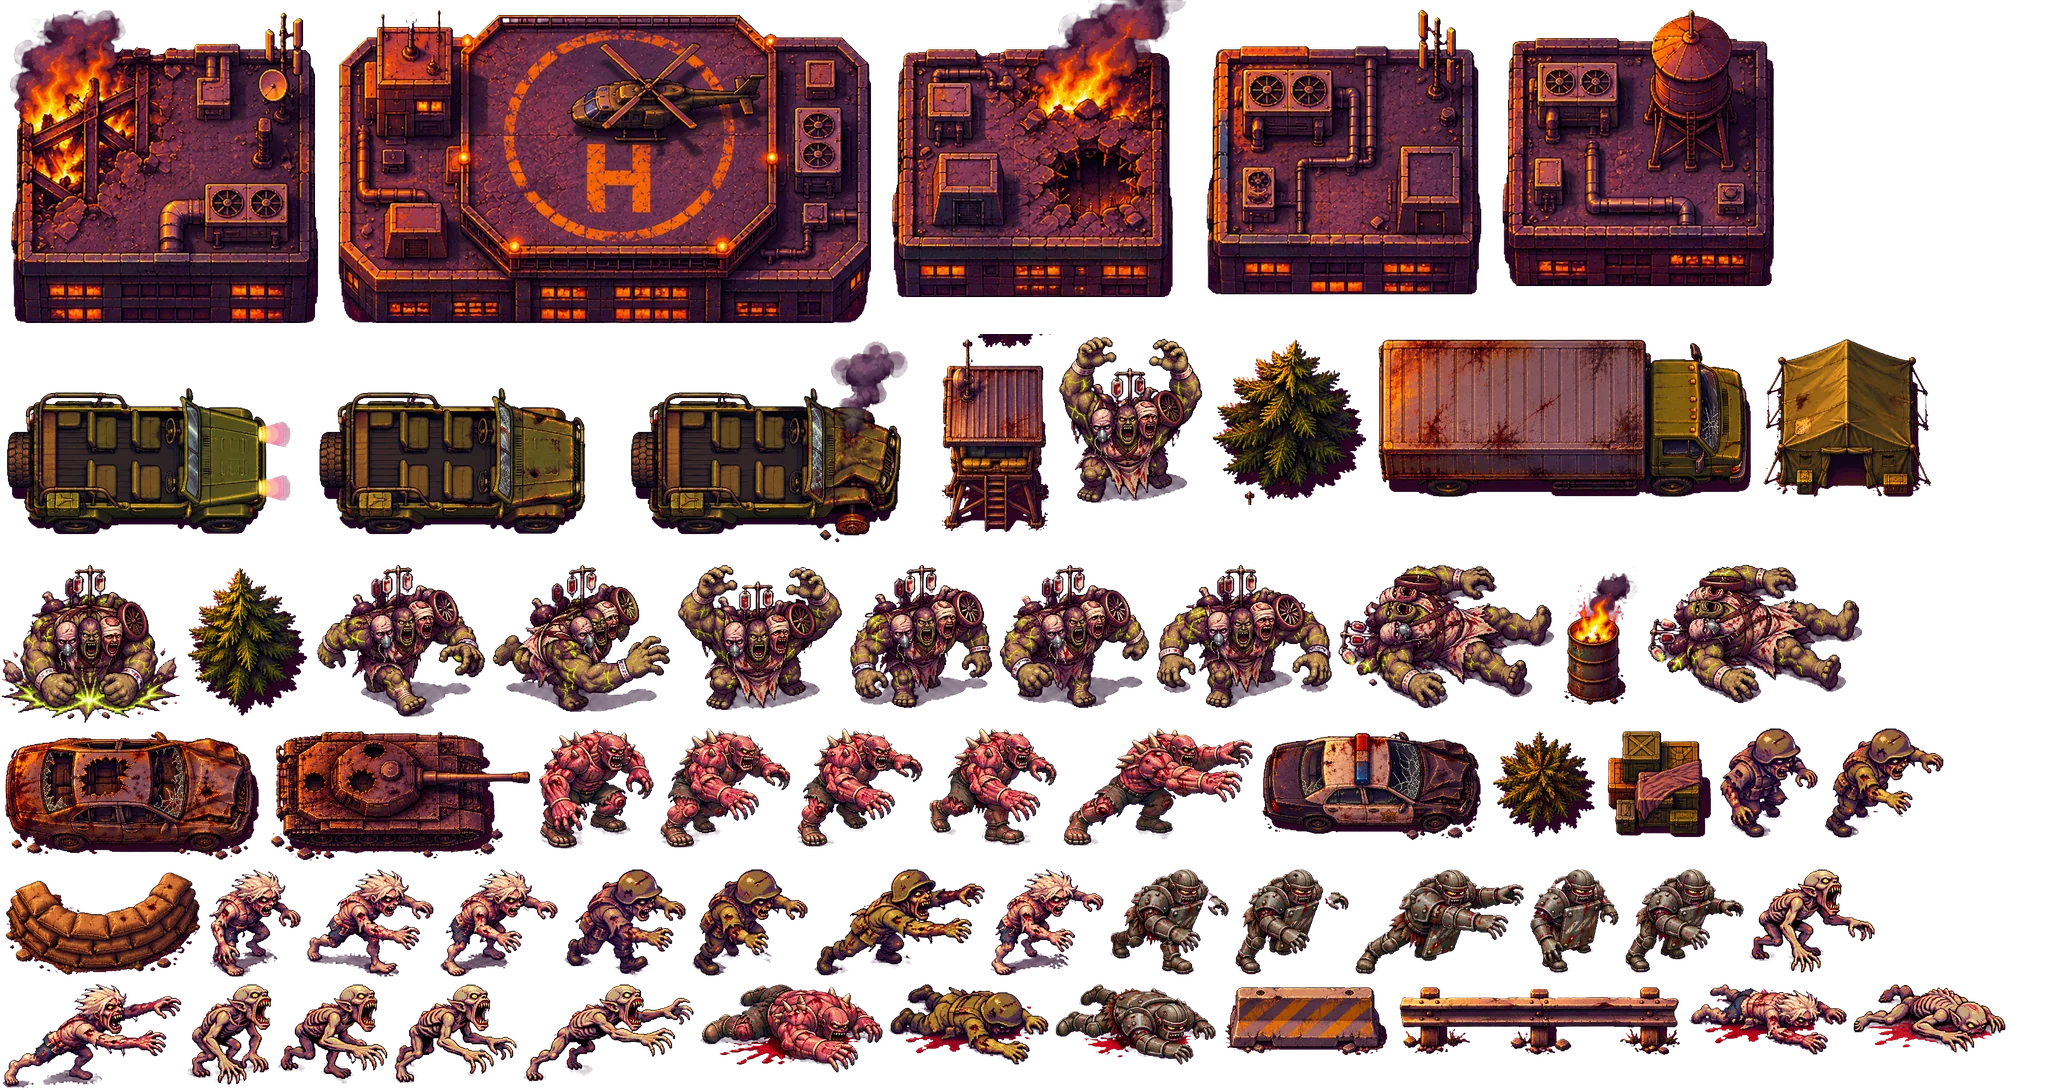
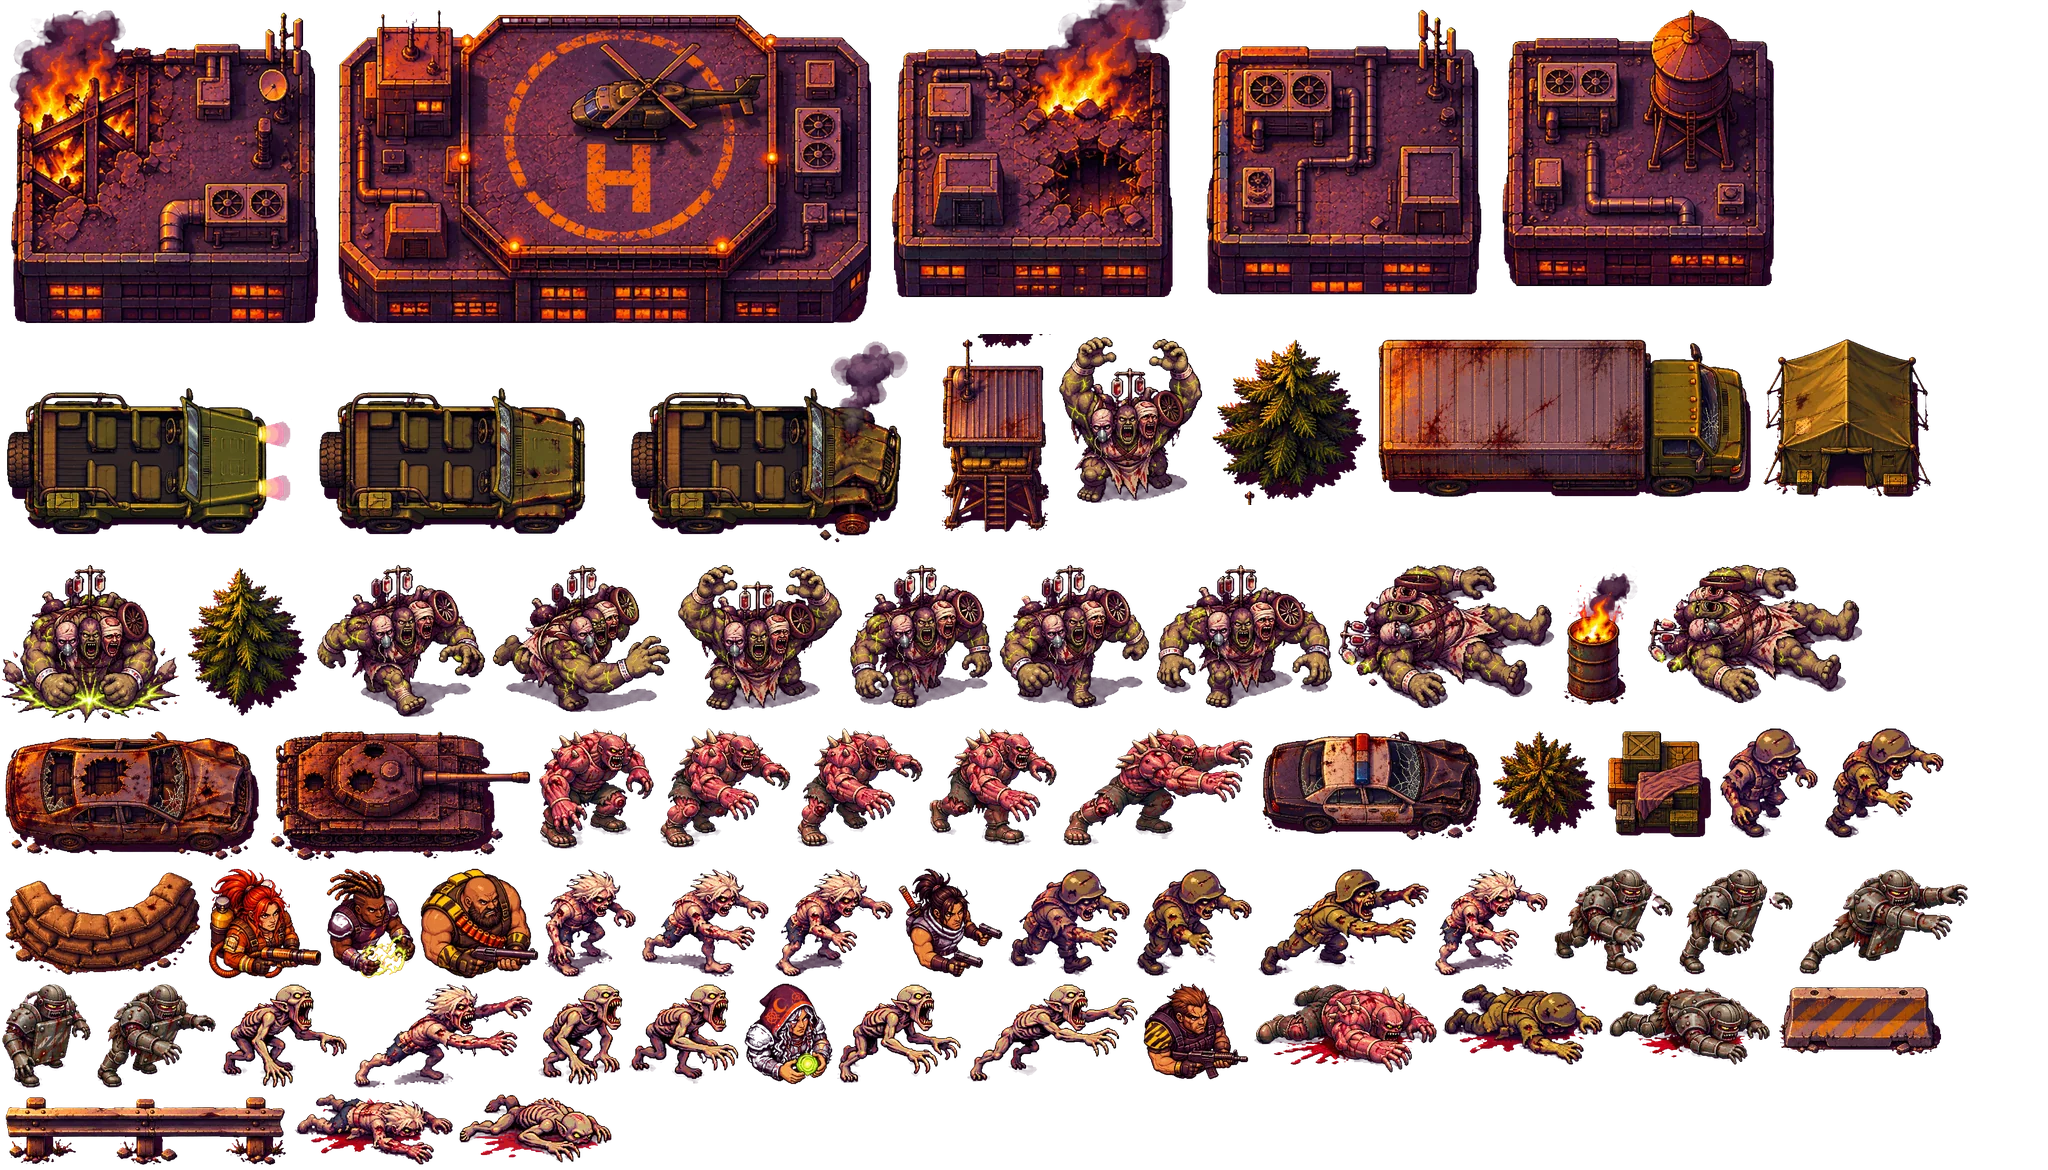
Stage 6: rider sprites in the jeep seats
Claude-Session: https://claude.ai/code/session_011TPi5fyk4GLuTR427GHKeK

diff --git a/game.js b/game.js
@@ -2462,8 +2462,8 @@ function s6In(D){const v=Object.values(D.ptr);D.in={l:v.includes('l'),r:v.includ
 
 /* ---------- drawing ---------- */
 const S6_ZOOM=.78;
-const S6SPR=new Image(),S6DIRT=new Image(),S6ASPH=new Image(),S6CONC=new Image(),S6M=JSON.parse('{"roof3": [0, 0, 327, 332], "helipad": [329, 0, 551, 332], "roof1": [882, 0, 313, 306], "roof0": [1197, 0, 294, 304], "roof2": [1493, 0, 290, 295], "jeep0": [0, 334, 310, 226], "jeep1": [312, 334, 310, 226], "jeep2": [624, 334, 310, 226], "tower": [936, 334, 118, 203], "ws2": [1056, 334, 149, 172], "tree0": [1207, 334, 164, 171], "truck": [1373, 334, 383, 168], "tent": [1758, 334, 178, 168], "ws3": [0, 562, 180, 162], "tree1": [182, 562, 130, 159], "ww2": [314, 562, 174, 158], "ww3": [490, 562, 183, 153], "ws1": [675, 562, 170, 151], "ww0": [847, 562, 148, 149], "ww1": [997, 562, 155, 149], "ws0": [1154, 562, 181, 149], "wd0": [1337, 562, 220, 149], "barrel": [1559, 562, 84, 148], "wd1": [1645, 562, 220, 144], "car": [0, 726, 264, 139], "tank": [266, 726, 269, 139], "z_brute0": [537, 726, 119, 125], "z_brute3": [658, 726, 135, 124], "z_brute2": [795, 726, 130, 123], "z_brute1": [927, 726, 132, 122], "z_brute4": [1061, 726, 194, 122], "cop": [1257, 726, 229, 119], "tree2": [1488, 726, 112, 116], "crates": [1602, 726, 114, 116], "z_grunt0": [1718, 726, 102, 114], "z_grunt2": [1822, 726, 124, 114], "sand": [0, 867, 205, 113], "z_runner0": [207, 867, 96, 112], "z_runner1": [305, 867, 131, 112], "z_runner3": [438, 867, 122, 112], "z_grunt1": [562, 867, 126, 111], "z_grunt3": [690, 867, 120, 111], "z_grunt4": [812, 867, 175, 111], "z_runner2": [989, 867, 117, 111], "z_armored1": [1108, 867, 123, 110], "z_armored2": [1233, 867, 118, 110], "z_armored4": [1353, 867, 173, 110], "z_armored0": [1528, 867, 93, 108], "z_armored3": [1623, 867, 123, 108], "z_screecher2": [1748, 867, 129, 108], "z_runner4": [0, 982, 184, 108], "z_screecher0": [186, 982, 88, 105], "z_screecher1": [276, 982, 114, 104], "z_screecher3": [392, 982, 127, 103], "z_screecher4": [521, 982, 175, 102], "z_brute5": [698, 982, 187, 93], "z_grunt5": [887, 982, 164, 85], "z_armored5": [1053, 982, 165, 85], "barrier": [1220, 982, 172, 78], "rail": [1394, 982, 291, 78], "z_runner5": [1687, 982, 162, 75], "z_screecher5": [1851, 982, 157, 73]}'||'{}');let S6PAT={};
-function s6ArtLoad(){if(S6SPR.src||!'assets/s6spr.webp?v=a062f639b8')return;S6SPR.src='assets/s6spr.webp?v=a062f639b8';S6DIRT.src='assets/s6dirt.webp?v=3284f2b95a';S6ASPH.src='assets/s6asph.webp?v=c481df7af7';S6CONC.src='assets/s6conc.webp?v=21f0c7258c';}
+const S6SPR=new Image(),S6DIRT=new Image(),S6ASPH=new Image(),S6CONC=new Image(),S6M=JSON.parse('{"roof3": [0, 0, 327, 332], "helipad": [329, 0, 551, 332], "roof1": [882, 0, 313, 306], "roof0": [1197, 0, 294, 304], "roof2": [1493, 0, 290, 295], "jeep0": [0, 334, 310, 226], "jeep1": [312, 334, 310, 226], "jeep2": [624, 334, 310, 226], "tower": [936, 334, 118, 203], "ws2": [1056, 334, 149, 172], "tree0": [1207, 334, 164, 171], "truck": [1373, 334, 383, 168], "tent": [1758, 334, 178, 168], "ws3": [0, 562, 180, 162], "tree1": [182, 562, 130, 159], "ww2": [314, 562, 174, 158], "ww3": [490, 562, 183, 153], "ws1": [675, 562, 170, 151], "ww0": [847, 562, 148, 149], "ww1": [997, 562, 155, 149], "ws0": [1154, 562, 181, 149], "wd0": [1337, 562, 220, 149], "barrel": [1559, 562, 84, 148], "wd1": [1645, 562, 220, 144], "car": [0, 726, 264, 139], "tank": [266, 726, 269, 139], "z_brute0": [537, 726, 119, 125], "z_brute3": [658, 726, 135, 124], "z_brute2": [795, 726, 130, 123], "z_brute1": [927, 726, 132, 122], "z_brute4": [1061, 726, 194, 122], "cop": [1257, 726, 229, 119], "tree2": [1488, 726, 112, 116], "crates": [1602, 726, 114, 116], "z_grunt0": [1718, 726, 102, 114], "z_grunt2": [1822, 726, 124, 114], "sand": [0, 867, 205, 113], "r_blaze": [207, 867, 116, 113], "r_volt": [325, 867, 92, 113], "r_bruno": [419, 867, 121, 113], "z_runner0": [542, 867, 96, 112], "z_runner1": [640, 867, 131, 112], "z_runner3": [773, 867, 122, 112], "r_rook": [897, 867, 107, 112], "z_grunt1": [1006, 867, 126, 111], "z_grunt3": [1134, 867, 120, 111], "z_grunt4": [1256, 867, 175, 111], "z_runner2": [1433, 867, 117, 111], "z_armored1": [1552, 867, 123, 110], "z_armored2": [1677, 867, 118, 110], "z_armored4": [1797, 867, 173, 110], "z_armored0": [0, 982, 93, 108], "z_armored3": [95, 982, 123, 108], "z_screecher2": [220, 982, 129, 108], "z_runner4": [351, 982, 184, 108], "z_screecher0": [537, 982, 88, 105], "z_screecher1": [627, 982, 114, 104], "r_hex": [743, 982, 91, 104], "z_screecher3": [836, 982, 127, 103], "z_screecher4": [965, 982, 175, 102], "r_cmd": [1142, 982, 108, 99], "z_brute5": [1252, 982, 187, 93], "z_grunt5": [1441, 982, 164, 85], "z_armored5": [1607, 982, 165, 85], "barrier": [1774, 982, 172, 78], "rail": [0, 1092, 291, 78], "z_runner5": [293, 1092, 162, 75], "z_screecher5": [457, 1092, 157, 73]}'||'{}');let S6PAT={};
+function s6ArtLoad(){if(S6SPR.src||!'assets/s6spr.webp?v=083186ca6d')return;S6SPR.src='assets/s6spr.webp?v=083186ca6d';S6DIRT.src='assets/s6dirt.webp?v=3284f2b95a';S6ASPH.src='assets/s6asph.webp?v=c481df7af7';S6CONC.src='assets/s6conc.webp?v=21f0c7258c';}
 const s6ok=i=>i.complete&&i.naturalWidth>0;
 function s6SprF(n,x,y,w,left,al){const r=S6M[n];if(!r||!s6ok(S6SPR))return false;const h=w*r[3]/r[2];ctx.save();ctx.translate(x,y);if(left)ctx.scale(-1,1);if(al!=null)ctx.globalAlpha=al;ctx.drawImage(S6SPR,r[0],r[1],r[2],r[3],-w/2,-h*.8,w,h);ctx.restore();return true;}
 function s6Spr(n,x,y,w,a,fl,al){const r=S6M[n];if(!r||!s6ok(S6SPR))return false;const h=w*r[3]/r[2];ctx.save();ctx.translate(x,y);if(a)ctx.rotate(a);if(fl)ctx.scale(1,-1);if(al!=null)ctx.globalAlpha=al;ctx.drawImage(S6SPR,r[0],r[1],r[2],r[3],-w/2,-h/2,w,h);ctx.restore();return true;}
@@ -2555,8 +2555,8 @@ function s6Jeep(D,x,y,Z){ctx.save();ctx.translate(x,y);ctx.rotate(D.a);const s=Z
   if(jr&&s6ok(S6SPR)){const J=1.3,k=s*J*84/284;
     if(fr<2){const g=ctx.createRadialGradient(150*s,0,10*s,150*s,0,150*s);g.addColorStop(0,'rgba(255,233,160,.28)');g.addColorStop(1,'rgba(255,233,160,0)');ctx.fillStyle=g;ctx.beginPath();ctx.moveTo(52*s,-16*s);ctx.lineTo(280*s,-95*s);ctx.lineTo(280*s,95*s);ctx.lineTo(52*s,16*s);ctx.closePath();ctx.fill();}
     if(D.dmgT>0)ctx.filter='brightness(1.6)';ctx.drawImage(S6SPR,jr[0],jr[1],jr[2],jr[3],-146*k,-127*k,jr[2]*k,jr[3]*k);ctx.filter='none';
-    for(const st of S6_SEATS){const id=D.seats[st];if(!id)continue;const[f,r]=S6_POS[st],col=id==='cmd'?'#ffc53d':HEROES[id].color,px=f*s*J,py=r*s*J,rr=(st==='stand'?8.5:7.5)*s;
-      if(S6M['r_'+id]&&s6ok(S6SPR)){s6Spr('r_'+id,px,py,rr*2.8,0);continue;}
+    for(const st of S6_SEATS.slice().sort((p,q)=>S6_POS[p][0]-S6_POS[q][0])){const id=D.seats[st];if(!id)continue;const[f,r]=S6_POS[st],col=id==='cmd'?'#ffc53d':HEROES[id].color,px=f*s*J,py=r*s*J,rr=(st==='stand'?8.5:7.5)*s;
+      if(S6M['r_'+id]&&s6ok(S6SPR)){const r=S6M['r_'+id],w=(id==='bruno'?33:29)*s,h=w*r[3]/r[2];ctx.save();ctx.translate(px,py);ctx.rotate(-D.a);if(Math.cos(D.a)<0)ctx.scale(-1,1);ctx.drawImage(S6SPR,r[0],r[1],r[2],r[3],-w/2,-h*.7,w,h);ctx.restore();continue;}
       ctx.fillStyle=col;ctx.beginPath();ctx.arc(px,py,rr+1.6*s,0,6.283);ctx.fill();const pi=POR[id];
       if(pi&&pi.complete&&pi.naturalWidth){ctx.save();ctx.beginPath();ctx.arc(px,py,rr,0,6.283);ctx.clip();ctx.translate(px,py);ctx.rotate(-D.a);ctx.drawImage(pi,-rr,-rr,rr*2,rr*2);ctx.restore();}
       else{ctx.fillStyle='#0b0b0b';ctx.beginPath();ctx.arc(px,py,rr*.7,0,6.283);ctx.fill();}}
@@ -2566,7 +2566,7 @@ function s6Jeep(D,x,y,Z){ctx.save();ctx.translate(x,y);ctx.rotate(D.a);const s=Z
   ctx.fillStyle='#111';for(const[a,b]of[[22,-21],[22,15],[-24,-21],[-24,15]])ctx.fillRect(a*s-8*s,b*s,16*s,6*s);
   ctx.fillStyle=D.dmgT>0?'#7a6a3a':'#4f5e34';ctx.fillRect(-38*s,-18*s,76*s,36*s);ctx.fillStyle='#3e4a28';ctx.fillRect(22*s,-18*s,16*s,36*s);
   ctx.fillStyle='#9fc8d8';ctx.fillRect(18*s,-15*s,3*s,30*s);ctx.fillStyle='#ffe9a0';ctx.fillRect(37*s,-15*s,3*s,6*s);ctx.fillRect(37*s,9*s,3*s,6*s);
-  for(const st of S6_SEATS){const id=D.seats[st];if(!id)continue;const[f,r]=S6_POS[st],col=id==='cmd'?'#ffc53d':HEROES[id].color;ctx.fillStyle='#1a1a1a';ctx.beginPath();ctx.arc(f*s,r*s,7*s,0,6.283);ctx.fill();ctx.fillStyle=col;ctx.beginPath();ctx.arc(f*s,r*s,5.2*s,0,6.283);ctx.fill();}
+  for(const st of S6_SEATS.slice().sort((p,q)=>S6_POS[p][0]-S6_POS[q][0])){const id=D.seats[st];if(!id)continue;const[f,r]=S6_POS[st],col=id==='cmd'?'#ffc53d':HEROES[id].color;ctx.fillStyle='#1a1a1a';ctx.beginPath();ctx.arc(f*s,r*s,7*s,0,6.283);ctx.fill();ctx.fillStyle=col;ctx.beginPath();ctx.arc(f*s,r*s,5.2*s,0,6.283);ctx.fill();}
   if(D.seats.stand==='hex'){ctx.strokeStyle='rgba(182,242,58,'+(.25+.15*Math.sin(t*4))+')';ctx.lineWidth=2;ctx.beginPath();ctx.ellipse(0,0,52*s,32*s,0,0,6.283);ctx.stroke();}
   ctx.restore();}
 function s6HUD(D){const hp=D.hp/D.max;ctx.fillStyle='#0d1016cc';ctx.fillRect(12,10,250,30);ctx.fillStyle='#efe6dc';ctx.font='11px Bungee, Impact, sans-serif';ctx.textAlign='left';ctx.fillText('JEEP',20,30);

diff --git a/index.html b/index.html
@@ -222,13 +222,13 @@ h3{font-size:12px;letter-spacing:.14em;text-transform:uppercase;color:var(--mute
   <div class="overlay" id="ov"></div>
 </div>
 
-<script>window.__VER='65cf2d6b1c';
+<script>window.__VER='9486d1a04b';
 if('serviceWorker' in navigator){navigator.serviceWorker.register('sw.js').catch(()=>{});}
 // when the app comes back from the background, check for a newer version and reload if the player is on a menu
 document.addEventListener('visibilitychange',()=>{if(document.hidden)return;
   fetch('version.json?t='+Date.now(),{cache:'no-store'}).then(r=>r.json()).then(d=>{
     if(d.v&&d.v!==window.__VER&&window.__canReload&&window.__canReload())location.reload();}).catch(()=>{});});
 </script>
-<script src="game.js?v=65cf2d6b1c"></script>
+<script src="game.js?v=9486d1a04b"></script>
 </body>
 </html>
